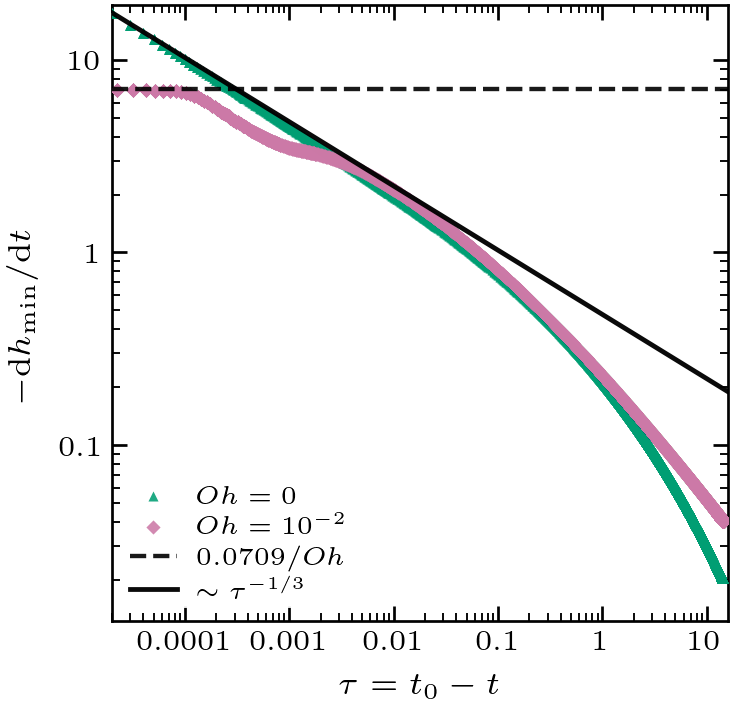
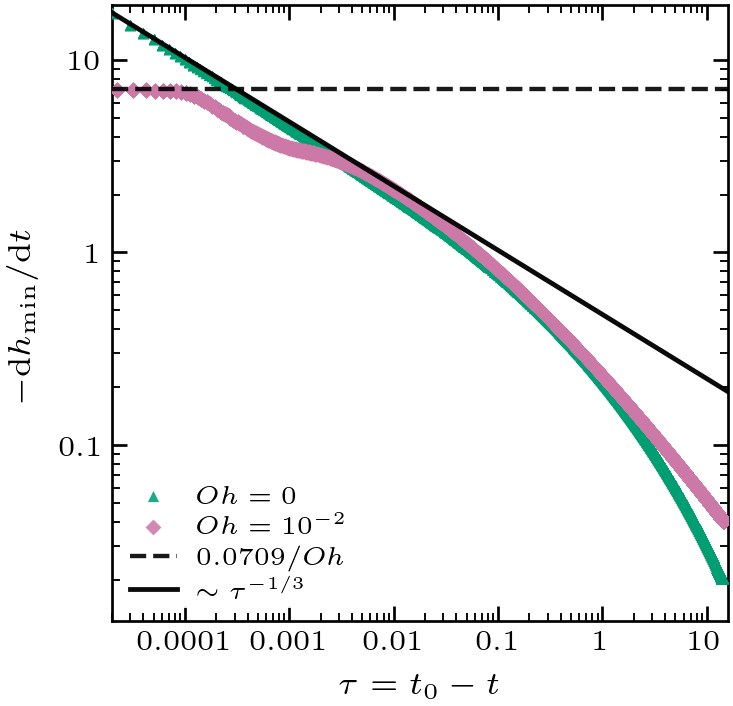
Use vector scatter in Figure 3

diff --git a/make_fig3_drop_pinch.py b/make_fig3_drop_pinch.py
@@ -463,14 +463,13 @@ def plot_hmin(ax: plt.Axes, prepared: list[dict[str, object]], show_ylabel: bool
         handle = ax.scatter(
             tau_pts,
             h_pts,
-            s=5.8,
+            s=7.2,
             c=case["colour"],
             marker=case["marker"],
             linewidths=0.0,
             alpha=0.88,
             label=case["label"],
             zorder=4,
-            rasterized=True,
         )
         scatter_handles.append(handle)
 
@@ -529,14 +528,13 @@ def plot_dhdt(ax: plt.Axes, prepared: list[dict[str, object]], show_ylabel: bool
         handle = ax.scatter(
             tau_pts[mask_pts],
             d_pts[mask_pts],
-            s=5.8,
+            s=7.2,
             c=case["colour"],
             marker=case["marker"],
             linewidths=0.0,
             alpha=0.88,
             label=case["label"],
             zorder=3,
-            rasterized=True,
         )
         scatter_handles.append(handle)
 